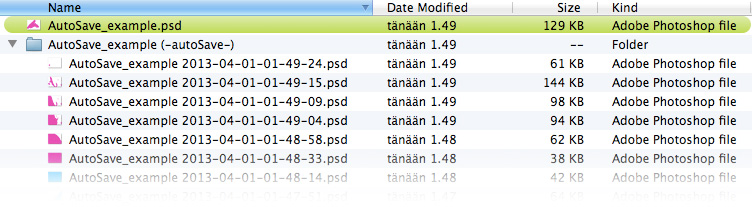
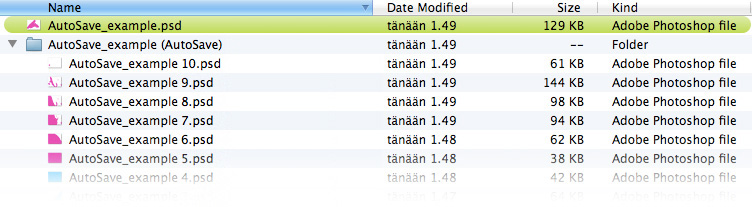
Update for image and readme
Update for image and readme

diff --git a/README.md b/README.md
@@ -13,7 +13,7 @@ This comes in handy if you feel like doing something new. Just press the shortcu
   * Next time you open photoshop you will find the script in: `File > Scripts > Auto Save PSD`. If photoshop is already running, restart it.
 * **Auto Save PSD.atn**: Double click this file so that it is added to photoshop.
   * You can make sure that it was added by going to: `Window > Actions` and making sure that you an find `Auto Save PSD` folder at the bottom of your Actions panel.
-* **Add a shortcut in photoshop**: 
+* **Add a shortcut in photoshop**:
   * `Edit > Keyboard shortcuts...` ( Mac: `Alt + Shift + Cmd + K`. Windows: `Alt + Shift + Ctrl + K` )
     * Choose `Shortcuts for: [Applications menus]`
     * `File > Scripts > Auto Save PSD`. ( After opening `File` you need to scroll down quite a bit to find `Scripts` ) ![Keyboard shotcuts](readme_img/Shortcut.jpg)
@@ -24,13 +24,11 @@ This comes in handy if you feel like doing something new. Just press the shortcu
 * This script was written for Photoshop CS 6. Chances are that it might work in some older versions, but I have no idea.
 * A document needs to be open for the script to do anything.
 * Depending on the situation you might want to save a new file by using the script, so that the very first save will also be saved separately.
-* The script will find the required Photoshop Action (`Auto Save PSD.atn`) automatically when needed, as long as you've added it into photoshop. 
+* The script will find the required Photoshop Action (`Auto Save PSD.atn`) automatically when needed, as long as you've added it into photoshop.
 * The Action is used to run a normal `save` command to prompt a `save as dialog` when you are doing the first file save with the script.
 * Although setting up a keyboard shotcut is highly recommended, you can still run the script from: `File > Scripts > Auto Save PSD`.
  * The shortcut you've set in `Keyboard shortcuts...` will be shown in the menu path shown above. So if you forget it, that might be easiest way to find out what it is.
-* The current naming format for the files is: `{Original_filename} Year-Month-Day-Hour-Minute-Second.psd`
+* The new file name system saves incremental numbers before the `.psd` extension.
 
 ## Possible changes?
-
-* New naming system. I'm not sure how this could be done, but the current file naming is not ideal.
 * Scripting functionality that enables me to get rid of the Action file. It's not super cumbersome to *install*, but I'd rather get rid of it.
